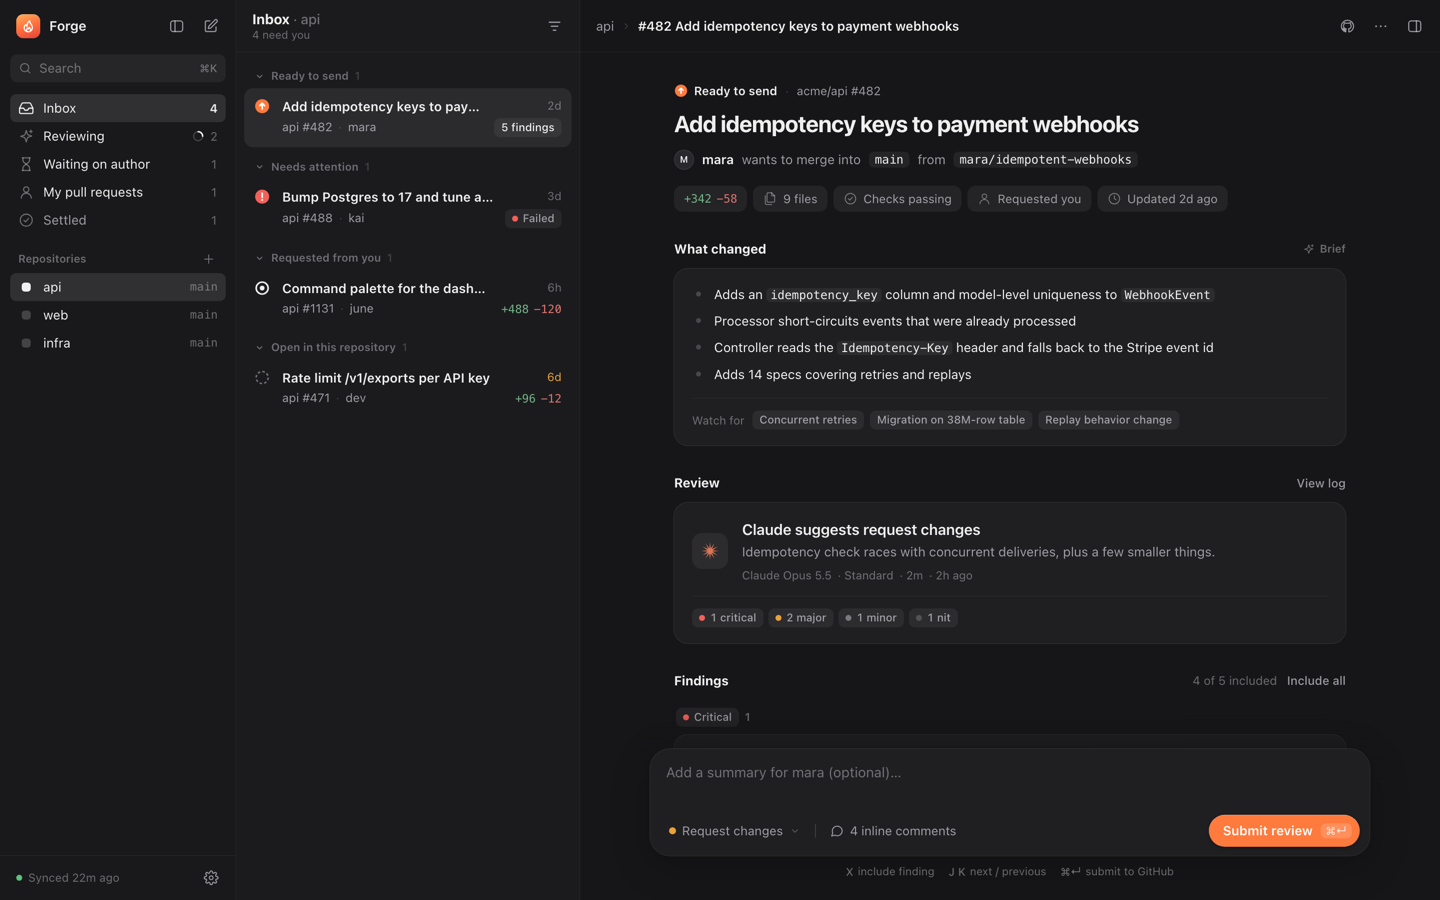
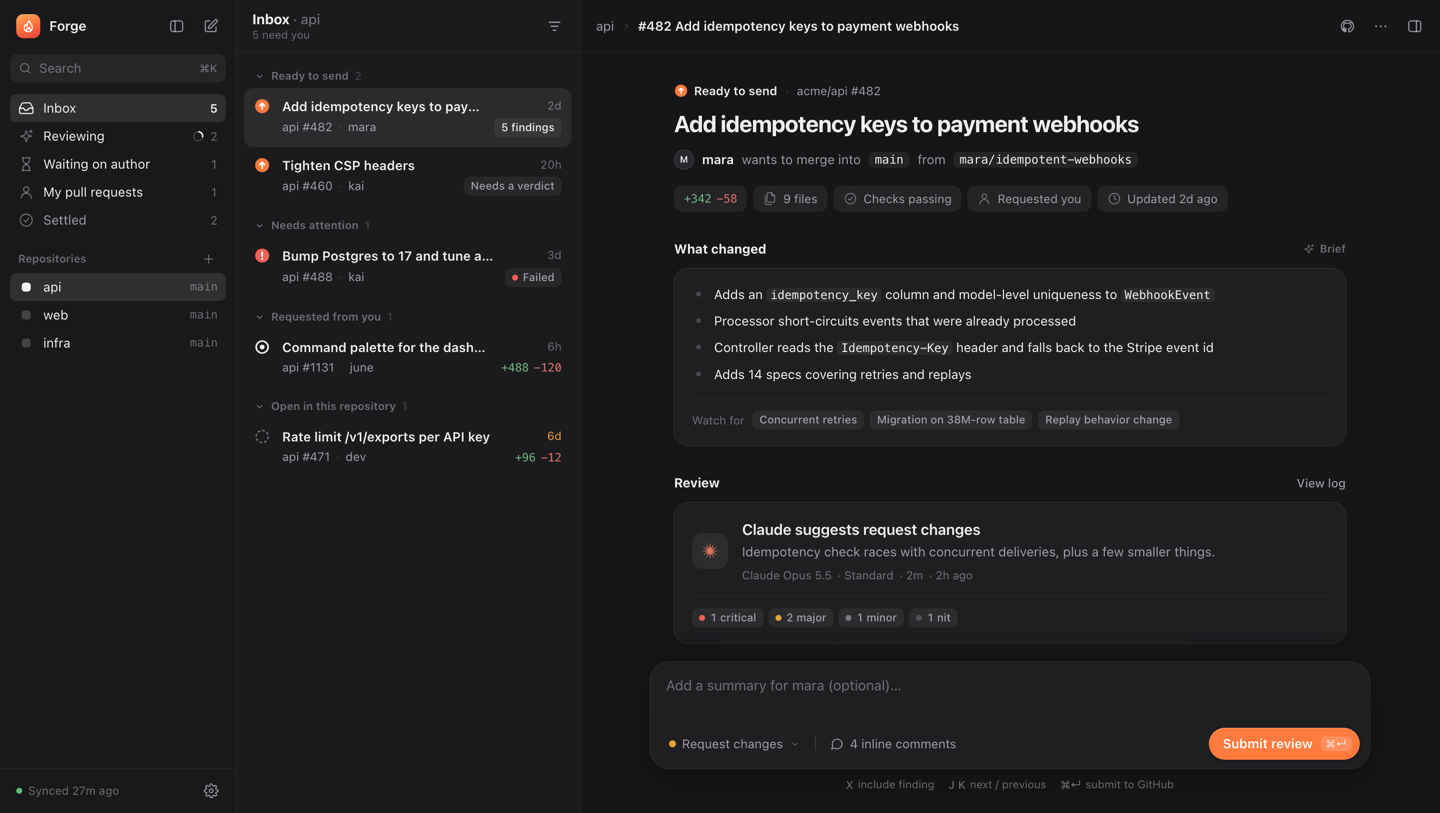
Refresh redesign screenshots and status

diff --git a/design/REDESIGN.md b/design/REDESIGN.md
@@ -70,10 +70,13 @@ Shipped in the app (dark appearance only for now):
 
 - 3-pane shell with mailboxes, repository switcher, sync chip, inspector (activity, agent log, history).
 - Server-derived `lifecycle` + `has_new_commits` on PR payloads; the task board and drag-and-drop are gone.
-- State-aware composer: start (agent, depth, focus lens + free text sent as `focus`), re-review, retry, live run, submit with include/exclude per finding and a suggested event.
-- `⌘K` palette, `J/K`, `X`, `E`, `I`, `N`, `R`, `⌘↵`, `⌘\`, `⌘,`; auto-advance after submit/archive.
+- State-aware composer: start (agent, depth, focus lens + free text sent as `focus`), re-review, retry, live run, submit with include/exclude per finding and a suggested event. No verdict is suggested when the agent's output wasn't parsed into findings.
+- Findings can be dismissed and restored; a PR can be archived (with undo) or deleted from Forge; past runs expand in the inspector history.
+- `⌘K` palette, `J/K`, `X`, `D`, `E`, `I`, `N`, `R`, `⌘↵`, `⌘\`, `⌘,`; auto-advance after submit/archive.
 - macOS-style notifications (in-app banners + optional desktop notifications), confirm sheet, settings sheet (accent color, agents, repositories, GitHub, shortcuts).
-- Mailbox URLs: `/inbox`, `/reviewing/:id`, `/waiting/:id`, `/mine`, `/settled`, `/new`. Old `/review_tasks/:id` links redirect to the PR.
+- Mailbox URLs: `/inbox`, `/reviewing/:id`, `/waiting/:id`, `/mine`, `/settled`, `/new`. `/review_tasks/:id` redirects to the PR, or opens the review directly when its PR isn't on the board (merged, closed, other repository). Settled also lists reviewed PRs that were merged or closed.
+- Narrow windows float the inspector and sidebar over the content; below 640px the list and the open PR take turns.
+- Error pages and the app icon use the same design.
 
 Still open: light appearance, multi-repo sync, file list per PR (no API yet), AI-drafted submission summary, editing finding text before submit, Tauri shell.
 
